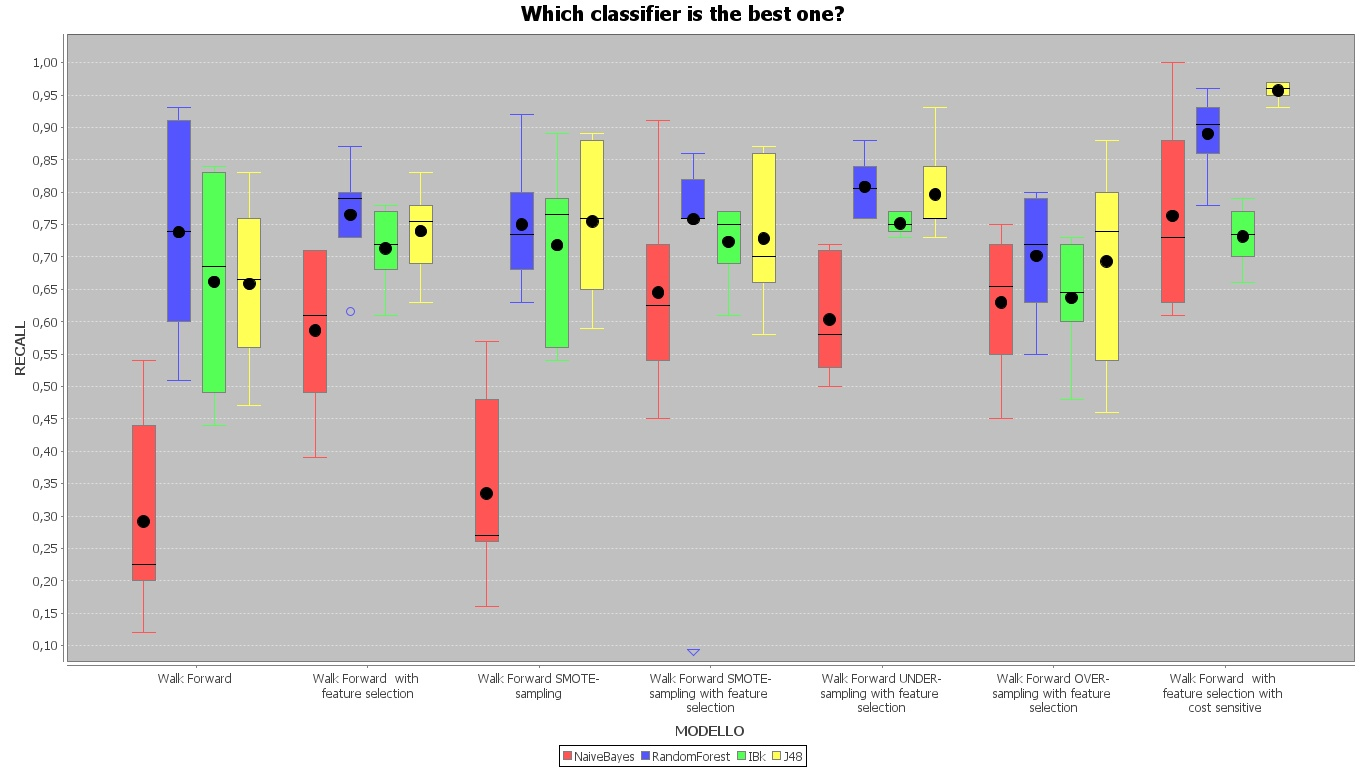
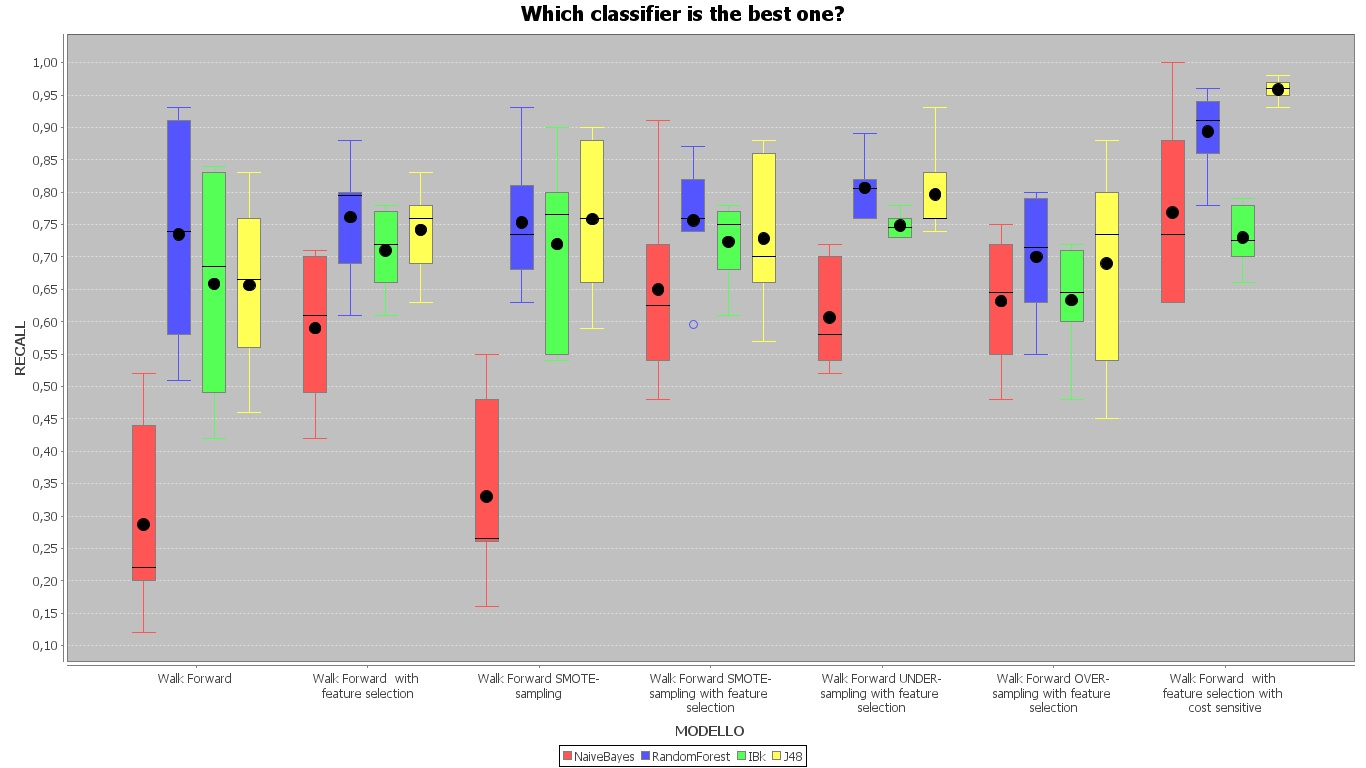
Added J48 classifier

diff --git a/Deliverable2/src/main/java/org/learning/bookkeeperlearning/controller/Validation.java b/Deliverable2/src/main/java/org/learning/bookkeeperlearning/controller/Validation.java
@@ -36,7 +36,7 @@ public abstract class Validation {
     public List<LearningModelEntity> validation() {
 
         DataSource trainingSet = validationEntity.getTrainingSet();
-        DataSource testingSet = validationEntity.getTrainingSet();
+        DataSource testingSet = validationEntity.getTestingSet();
         List<AbstractClassifier> classifiers = validationEntity.getClassifiers();
 
         int iterations = createInstances(trainingSet, testingSet);

diff --git a/Deliverable2/src/main/java/org/learning/bookkeeperlearning/controller/FeatureSelectionDecorator.java b/Deliverable2/src/main/java/org/learning/bookkeeperlearning/controller/FeatureSelectionDecorator.java
@@ -56,7 +56,7 @@ public class FeatureSelectionDecorator extends Decorator {
 
             return eval;
         }catch (Exception e){
-            logger.log(Level.SEVERE,"Error in cost feature selection evaluation",e);
+            logger.log(Level.SEVERE,"Error in feature selection evaluation",e);
         }
         return null;
     }

diff --git a/Deliverable2/src/main/java/org/learning/bookkeeperlearning/entity/ValidationEntity.java b/Deliverable2/src/main/java/org/learning/bookkeeperlearning/entity/ValidationEntity.java
@@ -2,7 +2,6 @@ package org.learning.bookkeeperlearning.entity;
 
 import weka.classifiers.AbstractClassifier;
 import weka.classifiers.bayes.NaiveBayes;
-import weka.classifiers.functions.GaussianProcesses;
 import weka.classifiers.lazy.IBk;
 import weka.classifiers.trees.J48;
 import weka.classifiers.trees.RandomForest;

diff --git a/Deliverable2/src/main/java/org/learning/bookkeeperlearning/controller/BalancingDecorator.java b/Deliverable2/src/main/java/org/learning/bookkeeperlearning/controller/BalancingDecorator.java
@@ -90,7 +90,7 @@ public class BalancingDecorator extends Decorator {
             return eval;
 
         }catch (Exception e){
-            logger.log(Level.SEVERE,"Error in walk balancing evaluation",e);
+            logger.log(Level.SEVERE,"Error in balancing evaluation",e);
         }
 
         return null;
